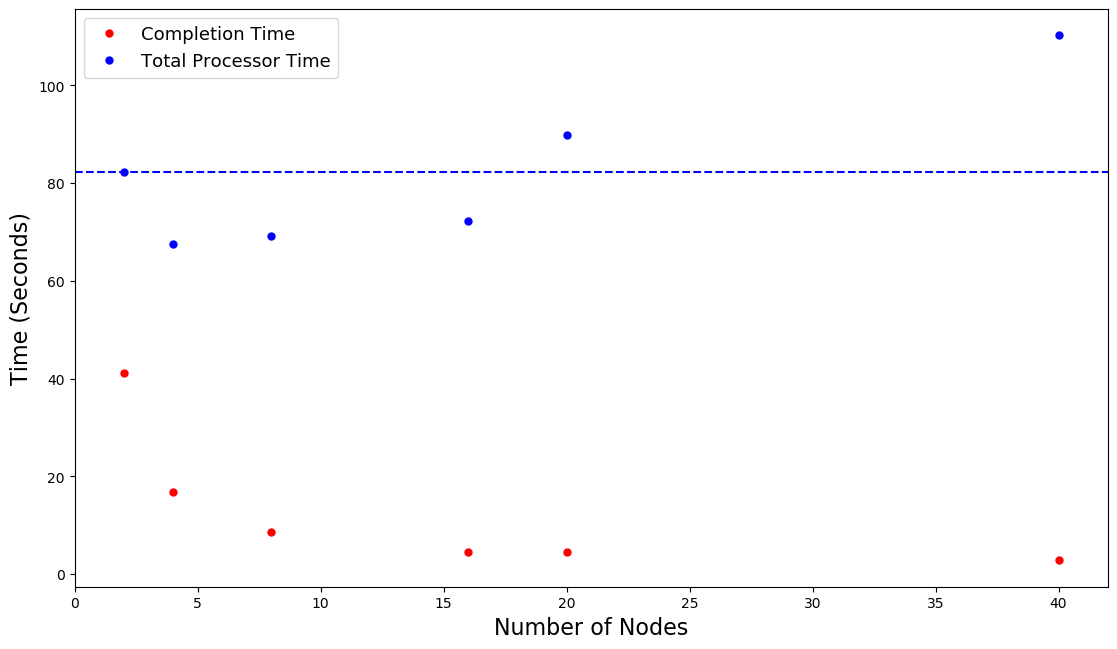
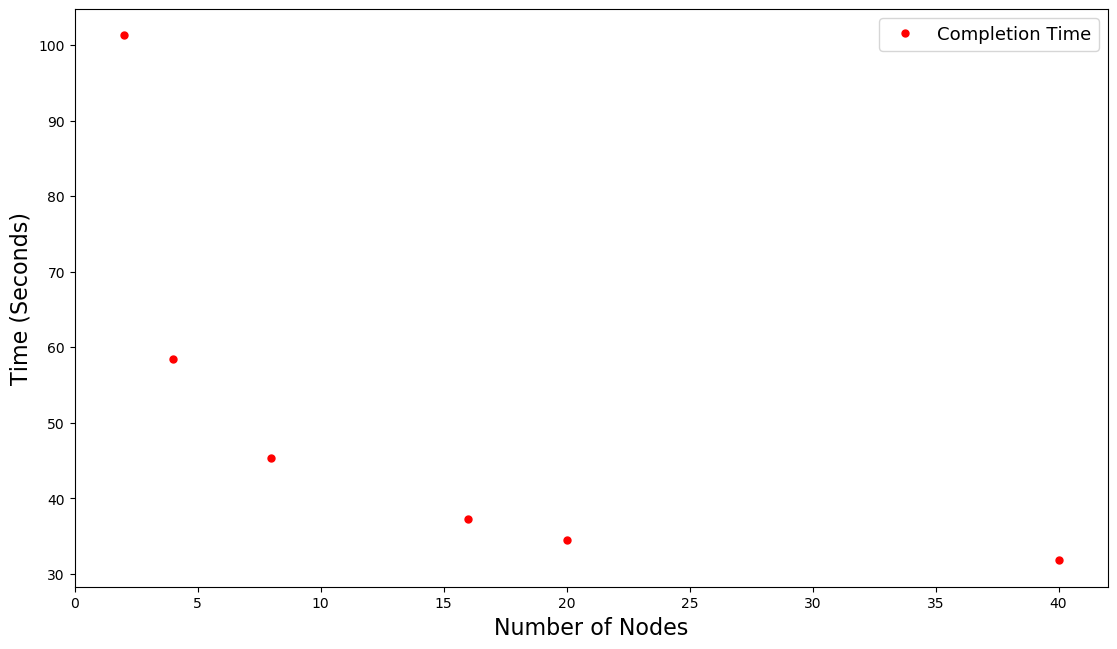
Project 1 Complete

diff --git a/Project1/results/plotter.py b/Project1/results/plotter.py
@@ -3,19 +3,10 @@ import numpy as np
 from scipy.interpolate import interp1d
 
 x_array = [2, 4, 8, 16, 20, 40]
-y_array = [41.1074, 16.874, 8.6416, 4.5123, 4.49402, 2.75582]
+y_array = [101.266, 58.3955, 45.395, 37.3023, 34.4435, 31.764]
 plt.figure(figsize=(13.33,7.5))
 
 plt.plot(x_array, y_array, 'ro', ms=5.0, label='Completion Time')
-
-for i in range(0, 6):
-    y_array[i] = x_array[i]*y_array[i]
-
-plt.plot(x_array, y_array, 'bo', ms=5.0, label='Total Processor Time')
-
-x = np.linspace(0, 42, 100)
-y = np.linspace(41.1074*2, 41.1074*2, 100)
-plt.plot(x, y, 'b--')
 
 plt.legend(fontsize=13, loc=0)
 

diff --git a/Project1/main.cc b/Project1/main.cc
@@ -77,7 +77,7 @@ void Server(int argc, char *argv[], int numProcessors) {
       MPI_Irecv(recv_bufs[i+j-1], sizeof(move)*IDIM*JDIM, MPI_BYTE, MPI_ANY_SOURCE, i+j, MPI_COMM_WORLD, &recv_requests[i+j-1]);
     }
   }
-
+  
   for(int i=0;i<NUM_GAMES;++i) { // recv all solutions
     MPI_Status status;
     int num;
